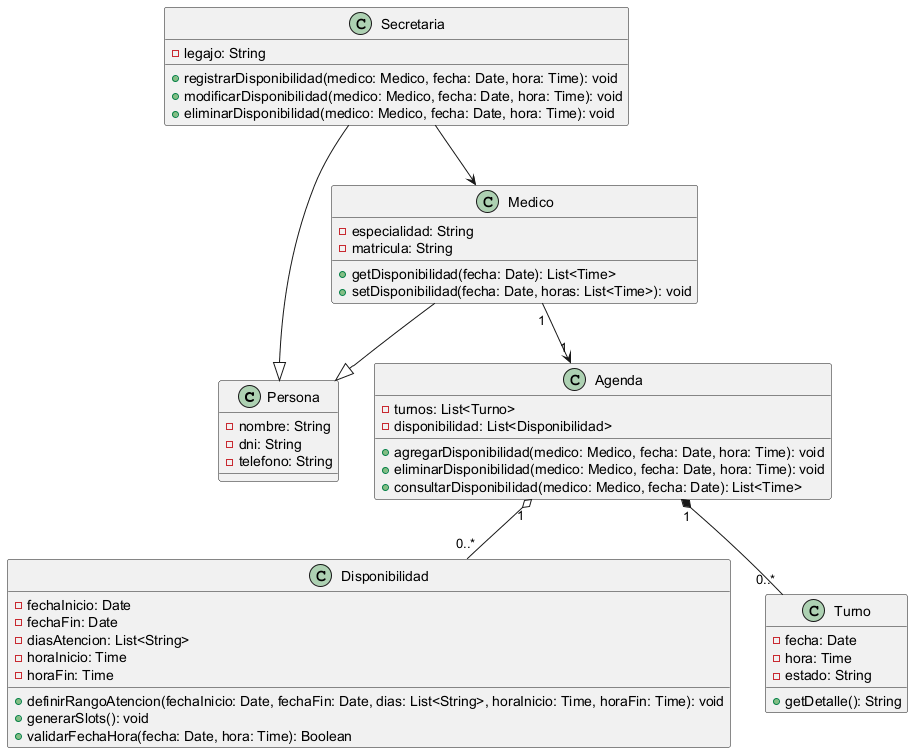
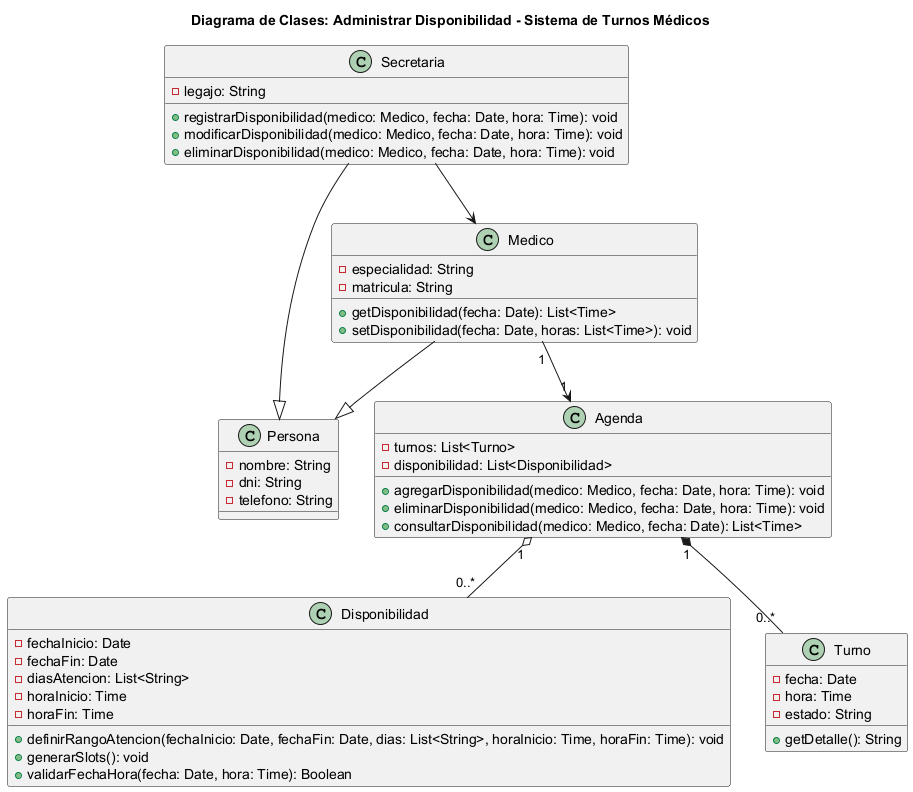
Merge pull request #194 from Purezaamor/fix/arquitecto-dominio-correcciones-a4-5
fix: se arreglaron las correcciones para la A4

Pull request: fix: se arreglaron las correcciones para la A4
Se corrigieron los: RCN9,10, 11, 12, 13, 14, 15, 16, 17, 18, 19, 20, 4, 5, 6, 7, 8

diff --git a/anexos/analisis-funcional/pilares-poo.md b/anexos/analisis-funcional/pilares-poo.md
@@ -18,8 +18,7 @@ class Persona {
 Los atributos `nombre`, `dni` y `telefono` son privados. No se puede acceder a ellos directamente desde fuera de la clase. Esto protege los datos y permite controlar cómo se modifican.
 
 **Captura del diagrama:**
-![Encapsulamiento - Ejemplo 1](../diagramas/01-diagrama-clases/capturas-pilares/poo-encapsulamiento-ejemplo-1.png)
-
+![Encapsulamiento - Ejemplo 1](../../diagramas/01-diagrama-clases/capturas-pilares/poo-abstraccion-ejemplo-1.png)
 ### Ejemplo 2: Clase Turno
 
 class Turno {
@@ -38,7 +37,7 @@ class Turno {
 El atributo `estado` es privado y solo se modifica a través de los métodos públicos `cancelar()` y `reprogramar()`. Esto asegura que el estado del turno solo cambie de forma controlada.
 
 **Captura del diagrama:**
-![Encapsulamiento - Ejemplo 2](../diagramas/01-diagrama-clases/capturas-pilares/poo-encapsulamiento-ejemplo-2.png)
+![Encapsulamiento - Ejemplo 2](../../diagramas/01-diagrama-clases/capturas-pilares/poo-abstraccion-ejemplo-2.png)
 
 ---
 
@@ -55,7 +54,7 @@ Persona --|> Secretaria
 `Paciente`, `Medico` y `Secretaria` heredan de `Persona`. Todas comparten atributos como `nombre`, `dni` y `telefono`. Esto evita duplicar código y mantiene la consistencia.
 
 **Captura del diagrama:**
-![Herencia - Ejemplo 1](../diagramas/01-diagrama-clases/capturas-pilares/poo-herencia-ejemplo-1.png)
+![Herencia - Ejemplo 1](../../diagramas/01-diagrama-clases/capturas-pilares/poo-herencia-ejemplo-1.png)
 
 ### Ejemplo 2: Agregar especialidad en Medico
 
@@ -69,7 +68,7 @@ class Medico {
 `Medico` hereda de `Persona` y agrega atributos específicos como `especialidad` y `matricula`. Esto es una extensión natural de la superclase.
 
 **Captura del diagrama:**
-![Herencia - Ejemplo 2](../diagramas/01-diagrama-clases/capturas-pilares/poo-herencia-ejemplo-2.png)
+![Herencia - Ejemplo 2](../../diagramas/01-diagrama-clases/capturas-pilares/poo-herencia-ejemplo-2.png)
 
 ---
 
@@ -91,7 +90,7 @@ interface INotificador {
 Cualquier clase que implemente `INotificador` (como `Notificador`) debe proveer estas operaciones. El sistema puede usar diferentes implementaciones sin cambiar el código que las invoca.
 
 **Captura del diagrama:**
-![Polimorfismo - Ejemplo 1](../diagramas/01-diagrama-clases/capturas-pilares/poo-polimorfismo-ejemplo-1.png)
+![Polimorfismo - Ejemplo 1](../../diagramas/01-diagrama-clases/capturas-pilares/poo-polimorfismo-ejemplo-1.png)
 
 ### Ejemplo 2: Método cancelar() en Turno
 
@@ -103,7 +102,7 @@ class Turno {
 `Turno` tiene su propia implementación de `cancelar()`. Si en el futuro existiera `Sobreturno`, podría tener su propia versión de `cancelar()` con comportamiento diferente.
 
 **Captura del diagrama:**
-![Polimorfismo - Ejemplo 2](../diagramas/01-diagrama-clases/capturas-pilares/poo-polimorfismo-ejemplo-2.png)
+![Polimorfismo - Ejemplo 2](../../diagramas/01-diagrama-clases/capturas-pilares/poo-polimorfismo-ejemplo-2.png)
 
 ---
 
@@ -119,7 +118,7 @@ interface IRepositorioTurnos
 Las interfaces `INotificador` y `IRepositorioTurnos` definen qué hace cada componente, no cómo lo hace. Esto permite cambiar la implementación sin afectar al resto del sistema.
 
 **Captura del diagrama:**
-![Abstracción - Ejemplo 1](../diagramas/01-diagrama-clases/capturas-pilares/poo-abstraccion-ejemplo-1.png)
+![Abstracción - Ejemplo 1](../../diagramas/01-diagrama-clases/capturas-pilares/poo-abstraccion-ejemplo-1.png)
 
 ### Ejemplo 2: Clase Agenda
 
@@ -137,4 +136,4 @@ class Agenda {
 `Agenda` abstrae la lógica de gestión de turnos y disponibilidad. El sistema no necesita saber cómo se almacenan los datos internamente, solo qué operaciones puede realizar.
 
 **Captura del diagrama:**
-![Abstracción - Ejemplo 2](../diagramas/01-diagrama-clases/capturas-pilares/poo-abstraccion-ejemplo-2.png)
+![Abstracción - Ejemplo 2](../../diagramas/01-diagrama-clases/capturas-pilares/poo-abstraccion-ejemplo-2.png)

diff --git a/anexos/analisis-funcional/04-caso-de-uso-visualizar-agenda-medica.md b/anexos/analisis-funcional/04-caso-de-uso-visualizar-agenda-medica.md
@@ -80,8 +80,8 @@
 | Medico | Consultar su agenda y ver disponibilidad | [herramientas-agile/tarjetas-crc/03-tarjeta-crc-medico.md](../../herramientas-agile/tarjetas-crc/03-tarjeta-crc-medico.md) |
 | Agenda | Gestionar turnos y disponibilidad | [herramientas-agile/tarjetas-crc/05-tarjeta-crc-agenda.md](../../herramientas-agile/tarjetas-crc/05-tarjeta-crc-agenda.md) |
 | Turno | Contener datos de la reserva | [herramientas-agile/tarjetas-crc/04-tarjeta-crc-turno.md](../../herramientas-agile/tarjetas-crc/04-tarjeta-crc-turno.md) |
-| ControladorAgenda | Orquestar la consulta de agenda | [herramientas-agile/tarjetas-crc/08-tarjeta-crc-controlador-agenda.md](../../herramientas-agile/tarjetas-crc/08-tarjeta-crc-controlador-agenda.md) |
-| PantallaAgenda | Mostrar la agenda al usuario | [herramientas-agile/tarjetas-crc/09-tarjeta-crc-pantalla-agenda.md](../../herramientas-agile/tarjetas-crc/09-tarjeta-crc-pantalla-agenda.md) |
+| ControladorAgenda | Orquestar la consulta de agenda | [herramientas-agile/tarjetas-crc/08-tarjeta-crc-controlador-agenda.md](../../herramientas-agile/tarjetas-crc/13-tarjeta-crc-slot.md) |
+| PantallaAgenda | Mostrar la agenda al usuario | [herramientas-agile/tarjetas-crc/09-tarjeta-crc-pantalla-agenda.md](../../herramientas-agile/tarjetas-crc/10-tarjeta-crc-pantalla-turnos.md) |
 
 ### Relaciones UML
 